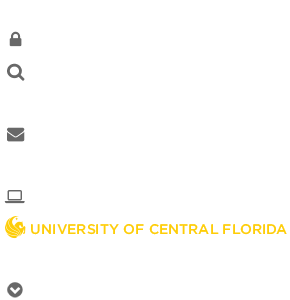
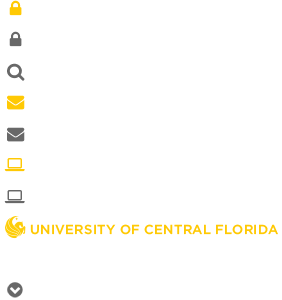
Design updates

diff --git a/compiler/assets/university-header-templ.js b/compiler/assets/university-header-templ.js
@@ -48,7 +48,7 @@ var ucfhbAssignTrackingListener = function(elem, eventType, link, action, label)
 /**
  * JSONP implementation for search service proxy results
  **/
-var ucfhbJsonp = null; 
+var ucfhbJsonp = null;
 function ucfhbSetJsonp(json) {
 	if (json) {
 		ucfhbJsonp = json;
@@ -177,7 +177,7 @@ function ucfhbSetJsonp(json) {
 	}
 
 
-	/** 
+	/**
 	 * Insert the bar into the DOM; start listening for events.
 	 * Uses contentLoaded.js to determine when the DOM is ready.
 	 **/
@@ -267,12 +267,14 @@ function ucfhbSetJsonp(json) {
 			// MyUCF Sliding functionality
 			myUCFBtn.onclick = function() {
 				if (myUCFBtn.className == 'ucfhb-shiftleft') {
+					myUCFBtn.innerHTML = 'UCF Sign in >';
 					toggleClasses(shiftLeftElems, '');
 					// Re-enable tabbing for previously disabled elements
 					searchField.removeAttribute('tabindex');
 					searchBtn.removeAttribute('tabindex');
 				}
 				else {
+					myUCFBtn.innerHTML = 'UCF Sign in <';
 					toggleClasses(shiftLeftElems, 'ucfhb-shiftleft');
 					// Disable tabbing on hidden elements
 					searchField.setAttribute('tabindex', '-1');
@@ -311,7 +313,7 @@ function ucfhbSetJsonp(json) {
 
 
 	/**
-	 * University Header Auto-Suggest Search Result functionality 
+	 * University Header Auto-Suggest Search Result functionality
 	 **/
 	function ucfhbAutocompleteSearch() {
 		var self = this;
@@ -447,7 +449,7 @@ function ucfhbSetJsonp(json) {
 			}
 			self.autocompleteHelp.innerHTML = helpText;
 		};
-		
+
 		// Output a search query's results:
 		this.outputResults = function(q, url) {
 			var safeq = stripTags(q),				// Query with tags stripped
@@ -468,7 +470,7 @@ function ucfhbSetJsonp(json) {
 
 				self.autocompleteList.appendChild(viewMoreLi);
 			};
-			
+
 			// Make sure there is actually a query to search for
 			if (safeq !== '') {
 
@@ -525,14 +527,14 @@ function ucfhbSetJsonp(json) {
 										nameSpan = '<span class="ucfhb-search-autocomplete-name">' + name + '</span>',
 										orgSpan = json.results[i].organization !== null ? '<span class="ucfhb-search-autocomplete-org">' + stripTags(json.results[i].organization.trim()) + '</span>' : '',
 										resultUrl = self.searchAction + encodeURIComponent(name);
-										
+
 									var listItem = document.createElement('li');
 									listItem.innerHTML = '<a class="'+ self.searchResultsLinkClass +'" href="' + resultUrl + '" tabindex="0" >' + nameSpan + orgSpan + '</a>';
 									listItem.setAttribute('data-name-val', name);
-									
+
 									var link = listItem.getElementsByTagName('a')[0];
 									ucfhbAssignTrackingListener(link, 'click', new String(resultUrl), ucfhbTrackingActionACSearch, '' + name);
-									
+
 									self.autocompleteList.appendChild(listItem);
 								}
 								// Add 'View More Results link'; update screenreader help text
@@ -599,7 +601,7 @@ function ucfhbSetJsonp(json) {
 				// Assign new search field value
 				self.searchField.value = newSearchVal;
 
-				// Simulate a right-arrow keystroke to force a re-read of 
+				// Simulate a right-arrow keystroke to force a re-read of
 				// search field val for screenreaders.
 				// Fall back to document.createEventObject for <IE9
 				// http://stackoverflow.com/a/12187302
@@ -653,7 +655,7 @@ function ucfhbSetJsonp(json) {
 				}
 			}
 		};
-		
+
 		// Perform outputResults() when a query is
 		// being typed in the search bar:
 		this.searchOnKeyUp = function(q, query) {
@@ -662,7 +664,7 @@ function ucfhbSetJsonp(json) {
 				self.outputResults(q, query);
 			}, 550);
 		};
-		
+
 		// On load + listen for events
 		this.initialize = function() {
 			var q = null,
@@ -707,7 +709,7 @@ function ucfhbSetJsonp(json) {
 			self.searchField.onfocus = function() {
 				q = stripTags(self.searchField.value);
 				query = self.searchService + q;
-				
+
 				if (
 					self.isSearchActive() === false &&
 					self.searchField.value !== '' &&
@@ -717,7 +719,7 @@ function ucfhbSetJsonp(json) {
 				}
 			};
 
-			// Handle search form submission; intercept and redirect to a 
+			// Handle search form submission; intercept and redirect to a
 			// provided URL instead of search results if necessary.
 			// Checks for standard addEventListener, falls back to attachEvent
 			var handleAutocompleteSelect = function(event) {

diff --git a/bar/css/bar.css b/bar/css/bar.css
@@ -121,7 +121,7 @@
 	font-family: Arial, Helvetica, sans-serif;
 	font-size: 14px;
 	text-decoration: none;
-	width: 60px;
+	width: 112px;
 	height: 34px;
 	position: absolute;
 	right: 195px;
@@ -137,7 +137,7 @@
 	color: #686868;
 }
 #ucfhb-signon-logo.ucfhb-shiftleft {
-	right: 277px;
+	right: 259px;
 }
 #ucfhb-signon-logo .ucfhb-hidden {
 	float: left;
@@ -161,7 +161,7 @@
 #ucfhb-services {
 	position: absolute;
 	top: 2px;
-	right: 0;
+	right: -6px;
 	width: 280px;
 	height: 51px;
 	z-index: 1;
@@ -197,16 +197,16 @@
 	padding: 0 0 0 38px;
 }
 #ucfhb-services #ucfhb-knightsmail {
-	background-position: 10px -94px;
+	background-position: 8px -94px;
 }
 #ucfhb-services #ucfhb-knightsmail:hover {
-	background-position: 10px -126px;
+	background-position: 8px -126px;
 }
 #ucfhb-services #ucfhb-webcourses {
-	background-position: 12px -156px;
+	background-position: 10px -156px;
 }
 #ucfhb-services #ucfhb-webcourses:hover {
-	background-position: 12px -188px;
+	background-position: 10px -188px;
 }
 #ucfhb-services a.ucfhb-service {
 	color: white;
@@ -509,7 +509,7 @@
 	#ucfhb-inner { width: 768px; }
 	#ucfhb-logo { margin-left: 10px; }
 	#ucfhb-right { width: 448px; }
-	#ucfhb-services { width: 335px; right: -7px; }
+	#ucfhb-services { width: 335px; }
 	#ucfhb-search { right: 9px; }
 	#ucfhb-search-field { width: 161px !important; }
 	#ucfhb-search-autocomplete { right: 10px; }

diff --git a/compiler/assets/university-header-markup.js b/compiler/assets/university-header-markup.js
@@ -9,7 +9,7 @@
 		'<div id="ucfhb-right">',
 			'<div id="ucfhb-signon">',
 				'<a id="ucfhb-signon-logo" href="#">',
-					'Sign In',
+					'UCF Sign In <span class="sign-in-toggle">&gt;</span>',
 				'</a>',
 				'<div id="ucfhb-services">',
 					'<div>',
